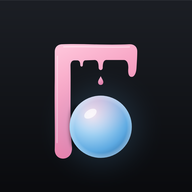
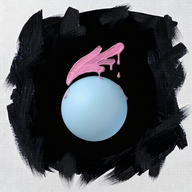
feat(web): итоговое лого вместо иконки B-black
Favicon (ico + png 32), apple-touch-icon, иконки PWA 192/512 и лого
в шапке, меню, на входе и в уведомлениях собраны из итогового
растрового лого. favicon.svg с прежней иконкой удалён.

Claude-Session: https://claude.ai/code/session_01M8XpUVEFrHFfC15oW6EzZE

diff --git a/apps/web/src/shared/ui/brand-mark.tsx b/apps/web/src/shared/ui/brand-mark.tsx
@@ -1,10 +1,12 @@
 import { cn } from '@/shared/lib/cn'
 
-/** Иконка приложения B-black: розовый поток рисует «Б», голубой шар — чаша */
+/** Лого приложения: чёрное пятно из мазков, розовая капля краски, голубой шар */
 export function BrandMark({ className }: { className?: string }) {
   return (
     <img
-      src="/favicon.svg"
+      src="/logo.webp"
+      width={256}
+      height={256}
       alt=""
       aria-hidden="true"
       draggable={false}

diff --git a/apps/web/index.html b/apps/web/index.html
@@ -9,7 +9,7 @@
     />
     <meta name="theme-color" content="#EEF0F3" media="(prefers-color-scheme: light)" />
     <meta name="theme-color" content="#0E1014" media="(prefers-color-scheme: dark)" />
-    <link rel="icon" type="image/svg+xml" href="/favicon.svg" />
+    <link rel="icon" href="/favicon.ico" sizes="48x48" />
     <link rel="icon" type="image/png" sizes="32x32" href="/favicon-32.png" />
     <link rel="apple-touch-icon" href="/apple-touch-icon.png" />
     <link rel="manifest" href="/manifest.webmanifest" />

diff --git a/apps/web/src/features/notifications/model/browser-notifications.ts b/apps/web/src/features/notifications/model/browser-notifications.ts
@@ -29,7 +29,7 @@ export function useBrowserNotificationPermission() {
 export function showBrowserNotification(title: string, body: string) {
   if (getPermission() !== 'granted' || document.visibilityState === 'visible') return
   try {
-    new Notification(title, { body, icon: '/favicon.svg' })
+    new Notification(title, { body, icon: '/icon-192.png' })
   } catch {
     // На некоторых мобильных браузерах конструктор Notification недоступен
   }
